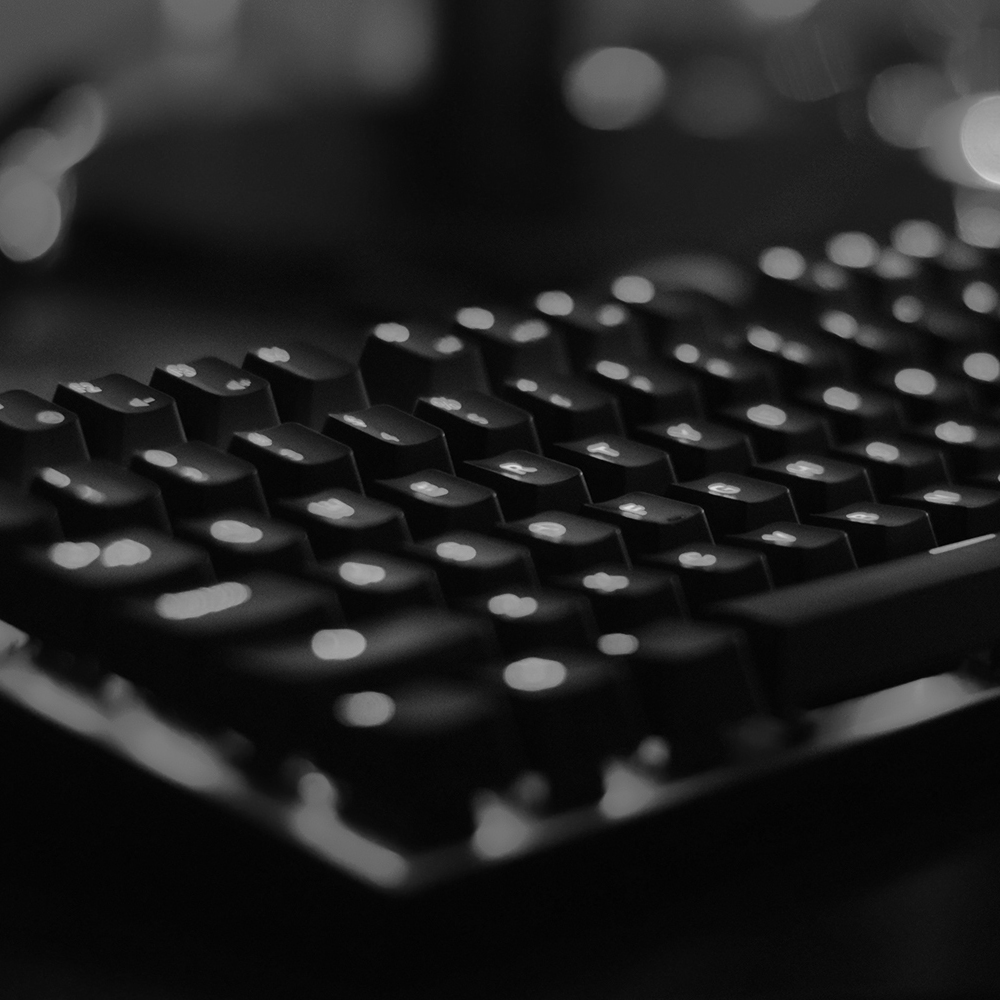
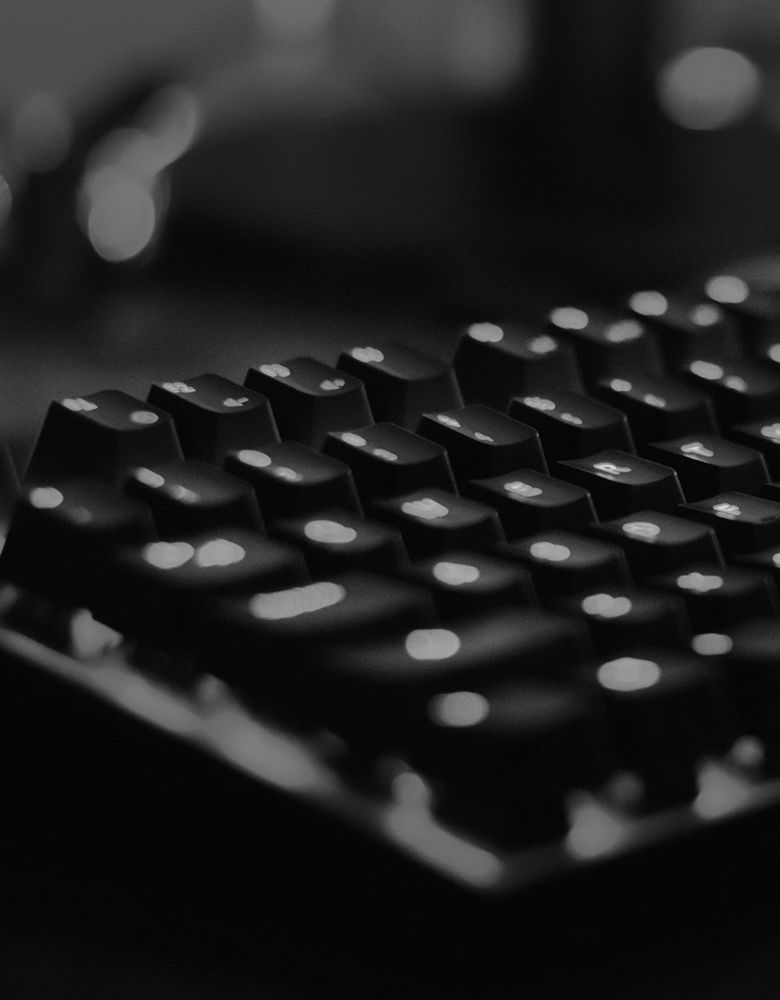
YES!

diff --git a/css/style.scss b/css/style.scss
@@ -119,14 +119,17 @@ main{
     border-radius: 0.5vw 0 0 0.5vw;
     margin-left: 0.5vw;
 }
+.percent90{
+    width: 90%;
+}
 .percent80{
     width: 80%;
 }
 .percent70{
     width: 70%;
 }
-.percent40{
-    width: 40%;
+.percent60{
+    width: 60%;
 }
 article{
     background: $lgray;
@@ -137,12 +140,63 @@ article{
     padding-left: 0.5vw;
     font-weight: 1;
 }
+@media only screen and(max-width: 1100px){
+    main{
+        background-image: url("../img/bg4.jpg");
+        background-repeat: no-repeat;
+        background-size: 100%;
+    }
+    .topP{
+        padding-top: 20vw;
+        padding-bottom: 50vw;
+    }
+    .stick{
+        width: 60%;
+        height: 6vw;
+        margin: 3vw 0px;
+    }
+    .innerStick{
+        height: 5vw;
+    }
+    .textSize5{
+        font-size: 4vw;
+    }
+}
 @media only screen and (max-width: 780px){
     ul{
         li{
             a{
                 padding: 34px 10px;
             }
+        }
+    }
+    main{
+        background-image: url("../img/bg2.jpg");
+        background-repeat: no-repeat;
+        background-size: 100%;
+    }
+    .topP{
+        padding-top: 30vw;
+        padding-bottom: 70vw;
+    }
+    .stick{
+        width: 70%;
+        height: 7vw;
+        margin: 4vw 0px;
+    }
+    .innerStick{
+        height: 6vw;
+    }
+    .textSize5{
+        font-size: 5vw;
+    }
+    .title{
+        width: 73%;
+        h1{
+            font-size: 8vw;
+        }
+        h2{
+            font-size: 8vw;
         }
     }
 }
@@ -170,5 +224,25 @@ article{
         background-image: url("../img/bg3.jpg");
         background-repeat: no-repeat;
         background-size: 100%;
+    }
+    .title{
+        width: 80%;
+        h1{
+            font-size: 9vw;
+        }
+        h2{
+            font-size: 9vw;
+        }
+    }
+    .stick{
+        width: 80%;
+        height: 8vw;
+        margin: 5vw 0px;
+    }
+    .innerStick{
+        height: 7vw;
+    }
+    .textSize5{
+        font-size: 6vw;
     }
 }

diff --git a/css/style.css b/css/style.css
@@ -158,6 +158,10 @@ main {
   margin-left: 0.5vw;
 }
 
+.percent90 {
+  width: 90%;
+}
+
 .percent80 {
   width: 80%;
 }
@@ -166,8 +170,8 @@ main {
   width: 70%;
 }
 
-.percent40 {
-  width: 40%;
+.percent60 {
+  width: 60%;
 }
 
 article {
@@ -181,9 +185,61 @@ article {
   font-weight: 1;
 }
 
+@media only screen and (max-width: 1100px) {
+  main {
+    background-image: url("../img/bg4.jpg");
+    background-repeat: no-repeat;
+    background-size: 100%;
+  }
+  .topP {
+    padding-top: 20vw;
+    padding-bottom: 50vw;
+  }
+  .stick {
+    width: 60%;
+    height: 6vw;
+    margin: 3vw 0px;
+  }
+  .innerStick {
+    height: 5vw;
+  }
+  .textSize5 {
+    font-size: 4vw;
+  }
+}
+
 @media only screen and (max-width: 780px) {
   ul li a {
     padding: 34px 10px;
+  }
+  main {
+    background-image: url("../img/bg2.jpg");
+    background-repeat: no-repeat;
+    background-size: 100%;
+  }
+  .topP {
+    padding-top: 30vw;
+    padding-bottom: 70vw;
+  }
+  .stick {
+    width: 70%;
+    height: 7vw;
+    margin: 4vw 0px;
+  }
+  .innerStick {
+    height: 6vw;
+  }
+  .textSize5 {
+    font-size: 5vw;
+  }
+  .title {
+    width: 73%;
+  }
+  .title h1 {
+    font-size: 8vw;
+  }
+  .title h2 {
+    font-size: 8vw;
   }
 }
 
@@ -207,6 +263,26 @@ article {
     background-image: url("../img/bg3.jpg");
     background-repeat: no-repeat;
     background-size: 100%;
+  }
+  .title {
+    width: 80%;
+  }
+  .title h1 {
+    font-size: 9vw;
+  }
+  .title h2 {
+    font-size: 9vw;
+  }
+  .stick {
+    width: 80%;
+    height: 8vw;
+    margin: 5vw 0px;
+  }
+  .innerStick {
+    height: 7vw;
+  }
+  .textSize5 {
+    font-size: 6vw;
   }
 }
 /*# sourceMappingURL=style.css.map */

diff --git a/index.html b/index.html
@@ -39,16 +39,16 @@
         </main>
         <article class="flex dirCol alignCenter">
             <div class="stick flex alignCenter">
-                <div class="innerStick flex alignCenter percent80"><h3 class="skill textSize5">HTML5 | 80%</h3></div>
+                <div class="innerStick flex alignCenter percent90"><h3 class="skill textSize5">HTML5 | 90%</h3></div>
             </div>
             <div class="stick flex alignCenter">
-                <div class="innerStick flex alignCenter percent70"><h3 class="skill textSize5">CSS3 | 70%</h3></div>
+                <div class="innerStick flex alignCenter percent80"><h3 class="skill textSize5">CSS3 | 80%</h3></div>
             </div>
             <div class="stick flex alignCenter">
-                <div class="innerStick flex alignCenter"><h3 class="skill textSize5">SASS | 50%</h3></div>
+                <div class="innerStick flex alignCenter percent70"><h3 class="skill textSize5">SASS | 70%</h3></div>
             </div>
             <div class="stick flex alignCenter">
-                <div class="innerStick flex alignCenter"><h3 class="skill textSize5">Photoshop | 50%</h3></div>
+                <div class="innerStick flex alignCenter percent60"><h3 class="skill textSize5">Photoshop | 60%</h3></div>
             </div>
         </article>
     </body>
